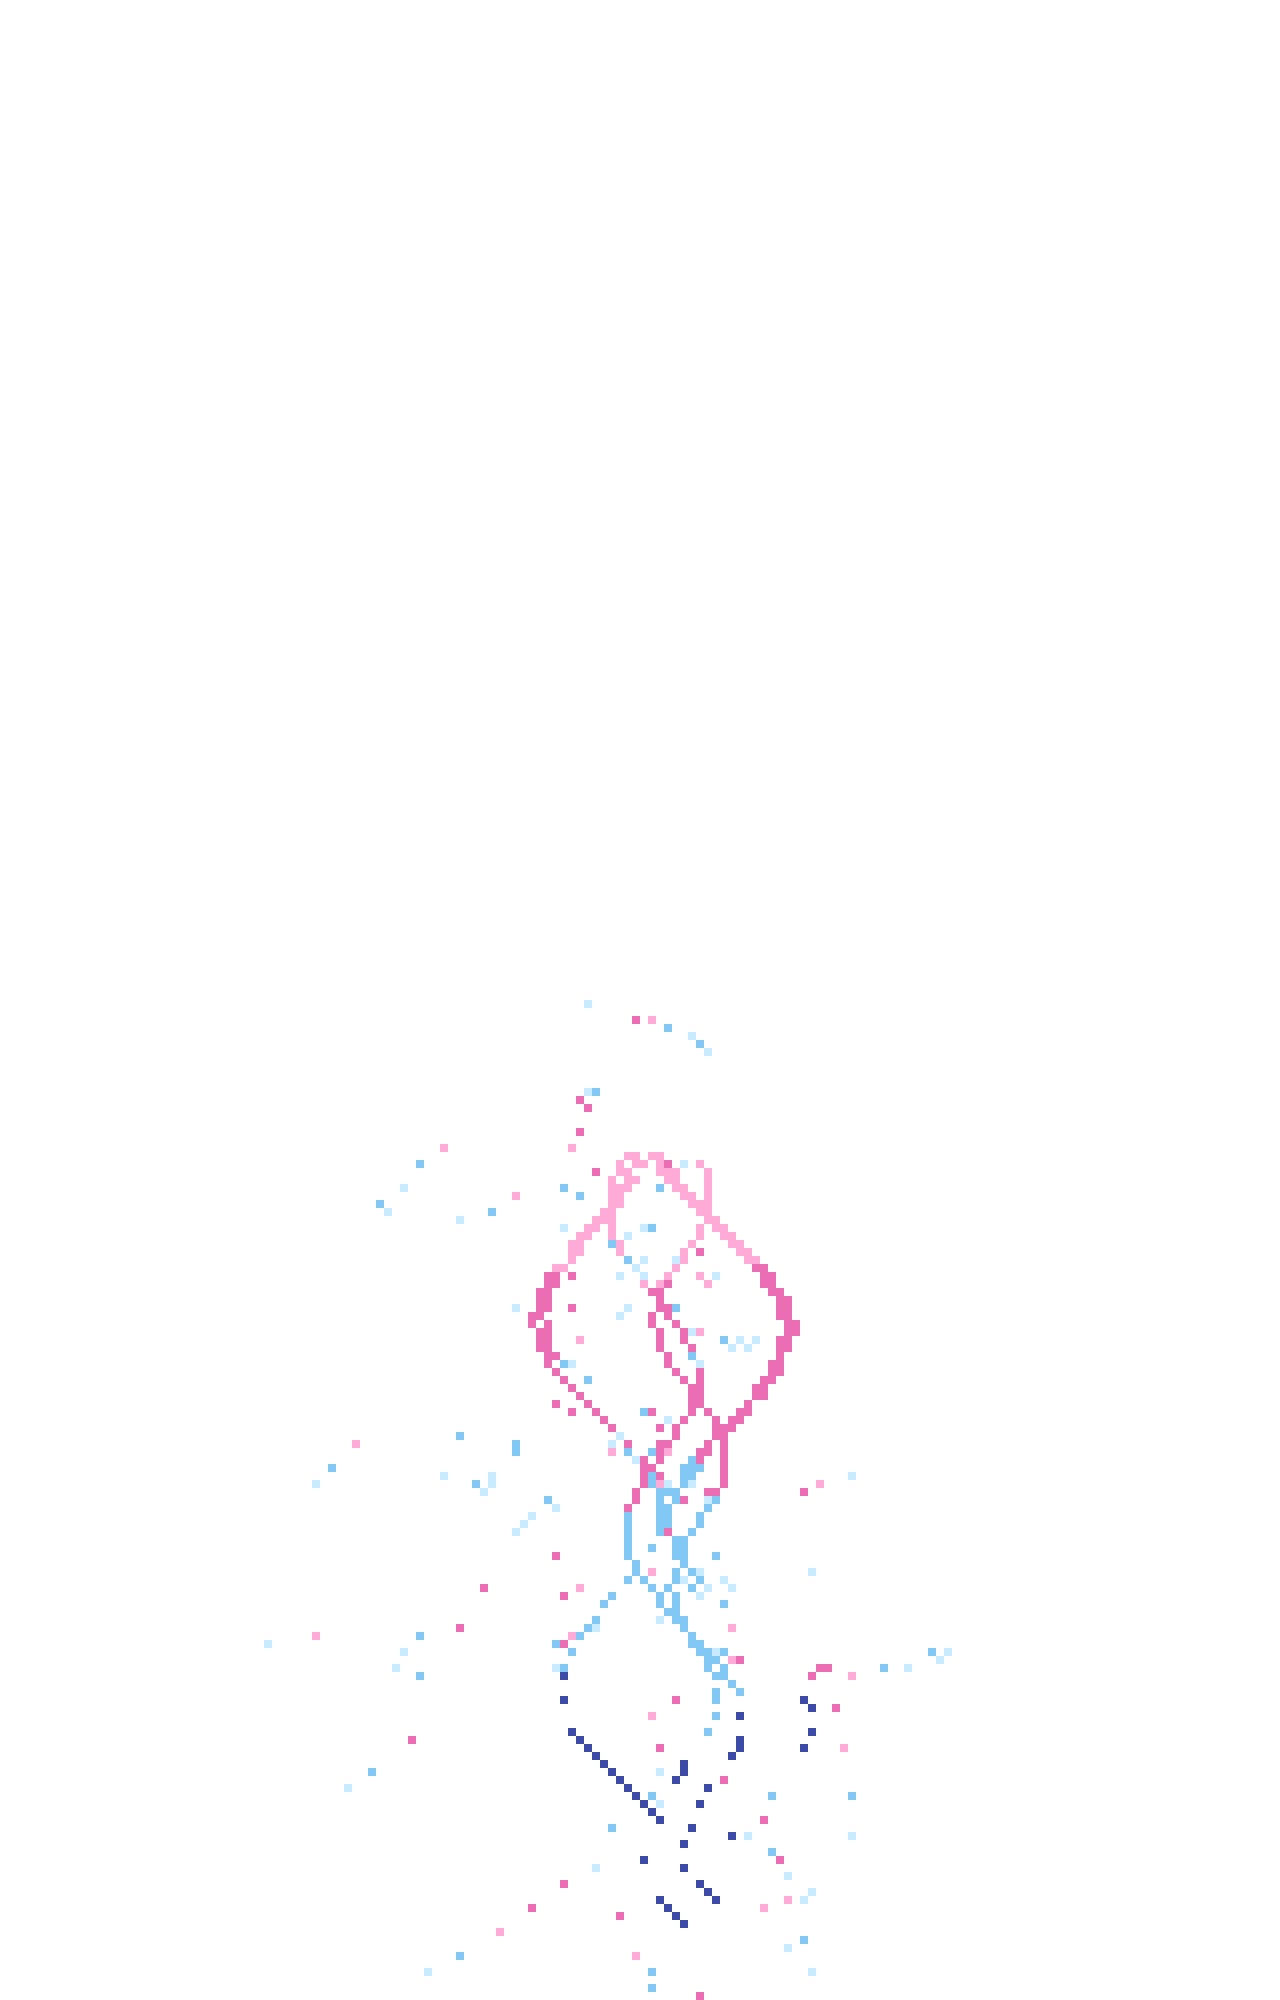
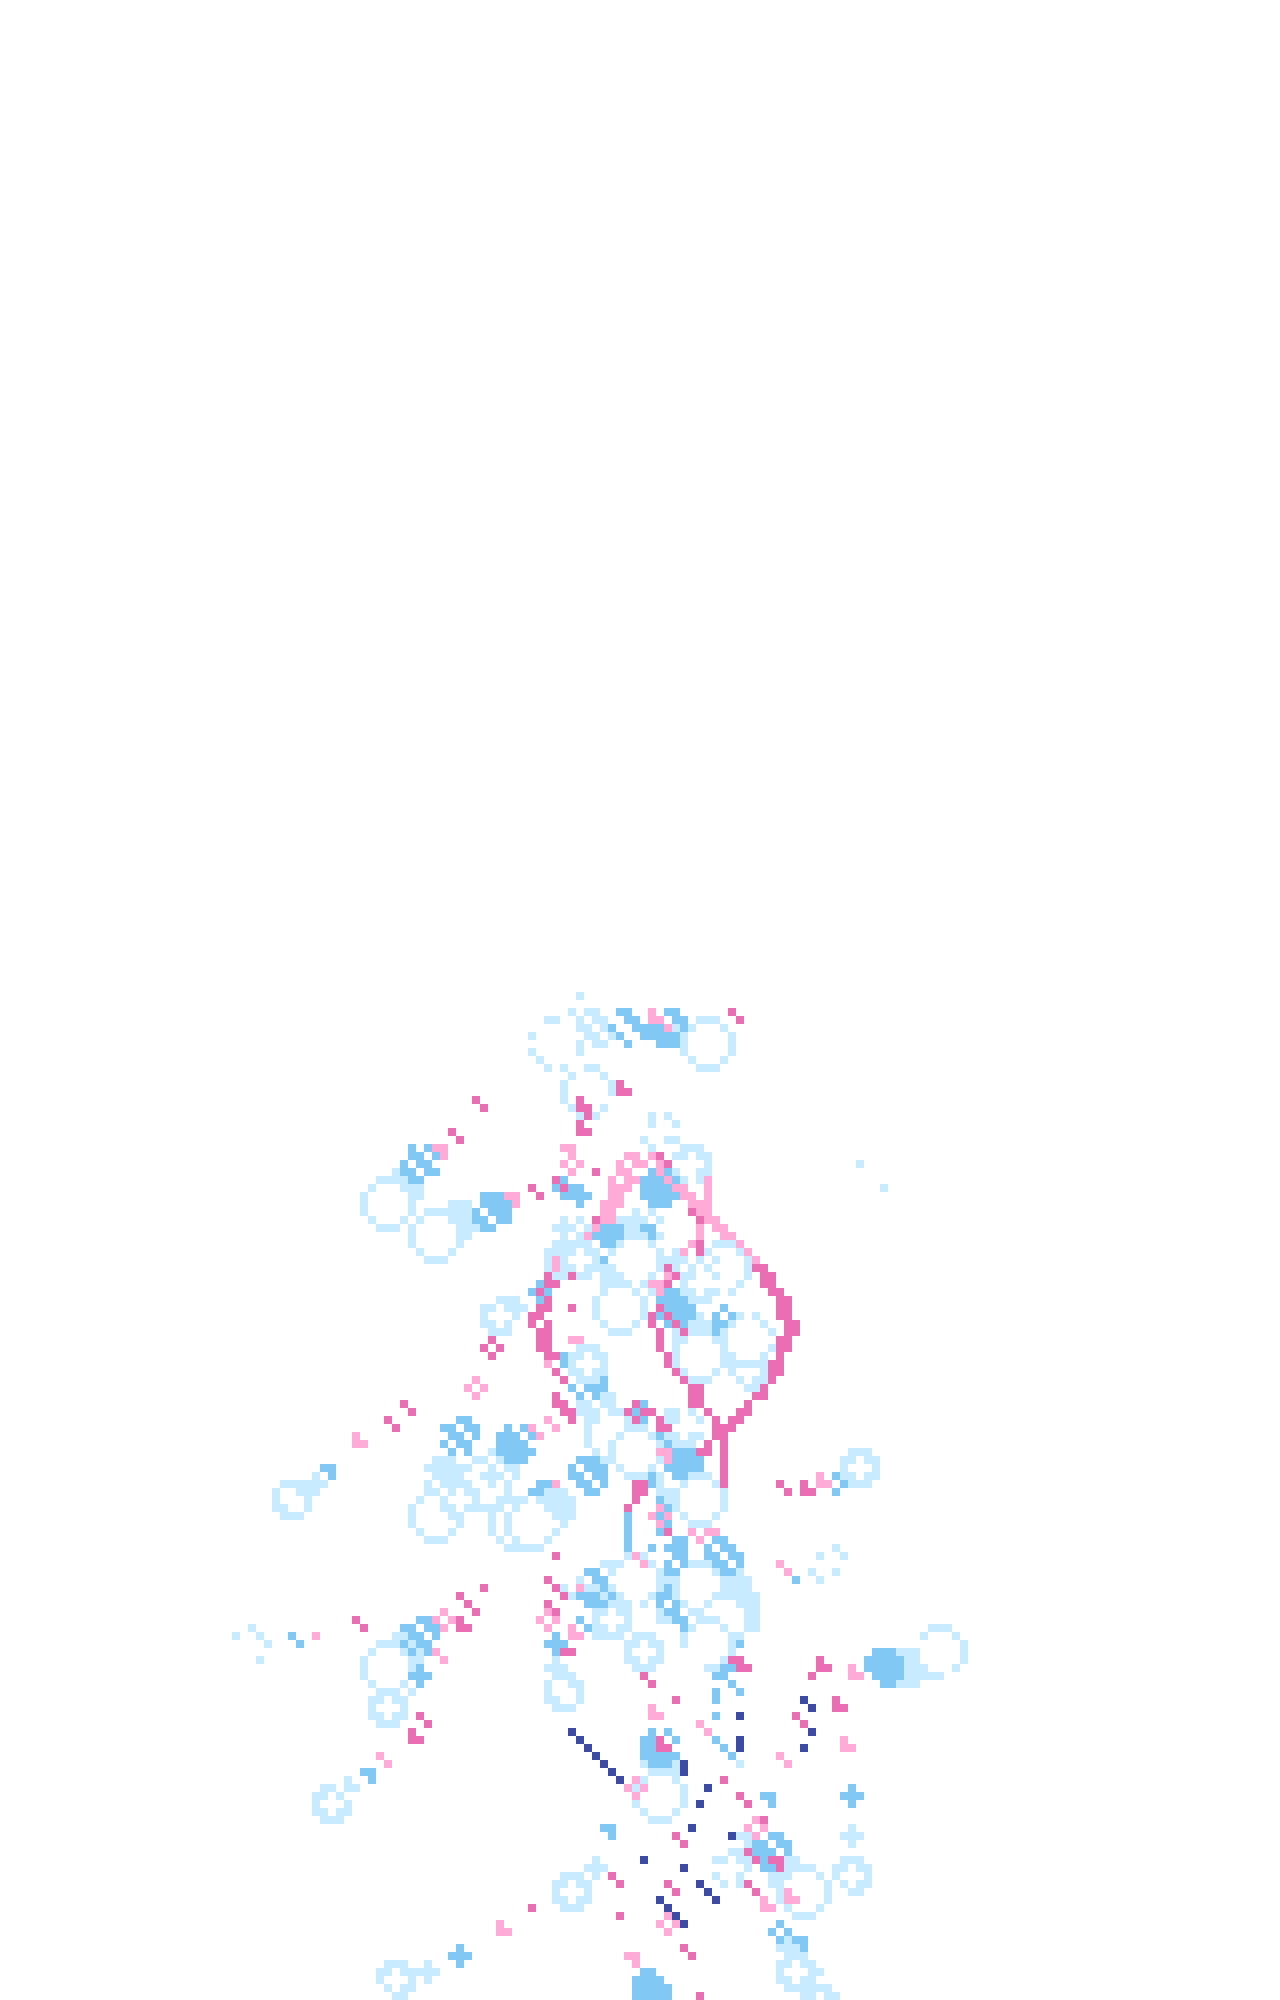
Make emergence particles thicker and more prominent
Sparkles now render as bold blob heads (white core + pale-cyan halo)
with tapering comet trails, and more particles are upsized.

https://claude.ai/code/session_011J9yW9SkfterbQjTwaT62f

diff --git a/build_emerge.py b/build_emerge.py
@@ -40,7 +40,7 @@ for _ in range(64):
         ang=random.uniform(0, TAU),
         swirl=random.uniform(-2.2, 2.2),       # spiral tightness (matches vortex)
         reach=random.uniform(55, 105),
-        big=random.random() < 0.35,
+        big=random.random() < 0.55,
     ))
 
 # Trailing ribbon lines that undulate out of the mouth (the "lines follow").
@@ -87,6 +87,13 @@ def render_frame(t, frame_idx):
                 return
         PX[x, y] = c + (255,)
 
+    def blob(x, y, c, env=1.0, r=1):
+        # filled round-ish blob of radius r (r=1 -> plus, r=2 -> 13px disc)
+        for dx in range(-r, r + 1):
+            for dy in range(-r, r + 1):
+                if dx * dx + dy * dy <= r * r + (1 if r > 1 else 0):
+                    put(x + dx, y + dy, c, env)
+
     # Undulating ribbon lines streaming out of the mouth
     for rb in RIBBONS:
         steps = rb['length']
@@ -108,23 +115,26 @@ def render_frame(t, frame_idx):
             if rb['amp'] >= 7 and f < 0.5:        # thicken the bright base
                 put(xx + 1, yy, c, env * 0.7)
 
-    # Sparkle particles with comet trails
+    # Sparkle particles with thick comet trails
     for p in PARTICLES:
         frac = (t + p['phase']) % 1.0
         env = envelope(frac)
         if env <= 0.02:
             continue
+        base_r = 2 if p['big'] else 1
         for k, (lag, col) in enumerate(TRAIL):
             tf = frac - lag
             if tf < 0:
                 break
             x, y = particle_pos(p, tf, t)
             e = env * (1.0 - k / (len(TRAIL) + 1))
-            put(x, y, col, e)
-            if p['big'] and k == 0:               # bright sparkle core
-                put(x + 1, y, PALE_CYAN, env * 0.8)
-                put(x, y + 1, PALE_CYAN, env * 0.8)
-                put(x - 1, y, CYAN, env * 0.6)
+            # Trail tapers: fat near the head, thinner toward the tail.
+            r = base_r + 1 if k == 0 else base_r if k <= 2 else max(1, base_r - 1)
+            blob(x, y, col, e, r)
+        # Bright sparkle head on top: glow halo then solid white core.
+        hx, hy = particle_pos(p, frac, t)
+        blob(hx, hy, PALE_CYAN, env * 0.8, base_r + 1)
+        blob(hx, hy, WHITE, env, base_r)
     return img
 
 
